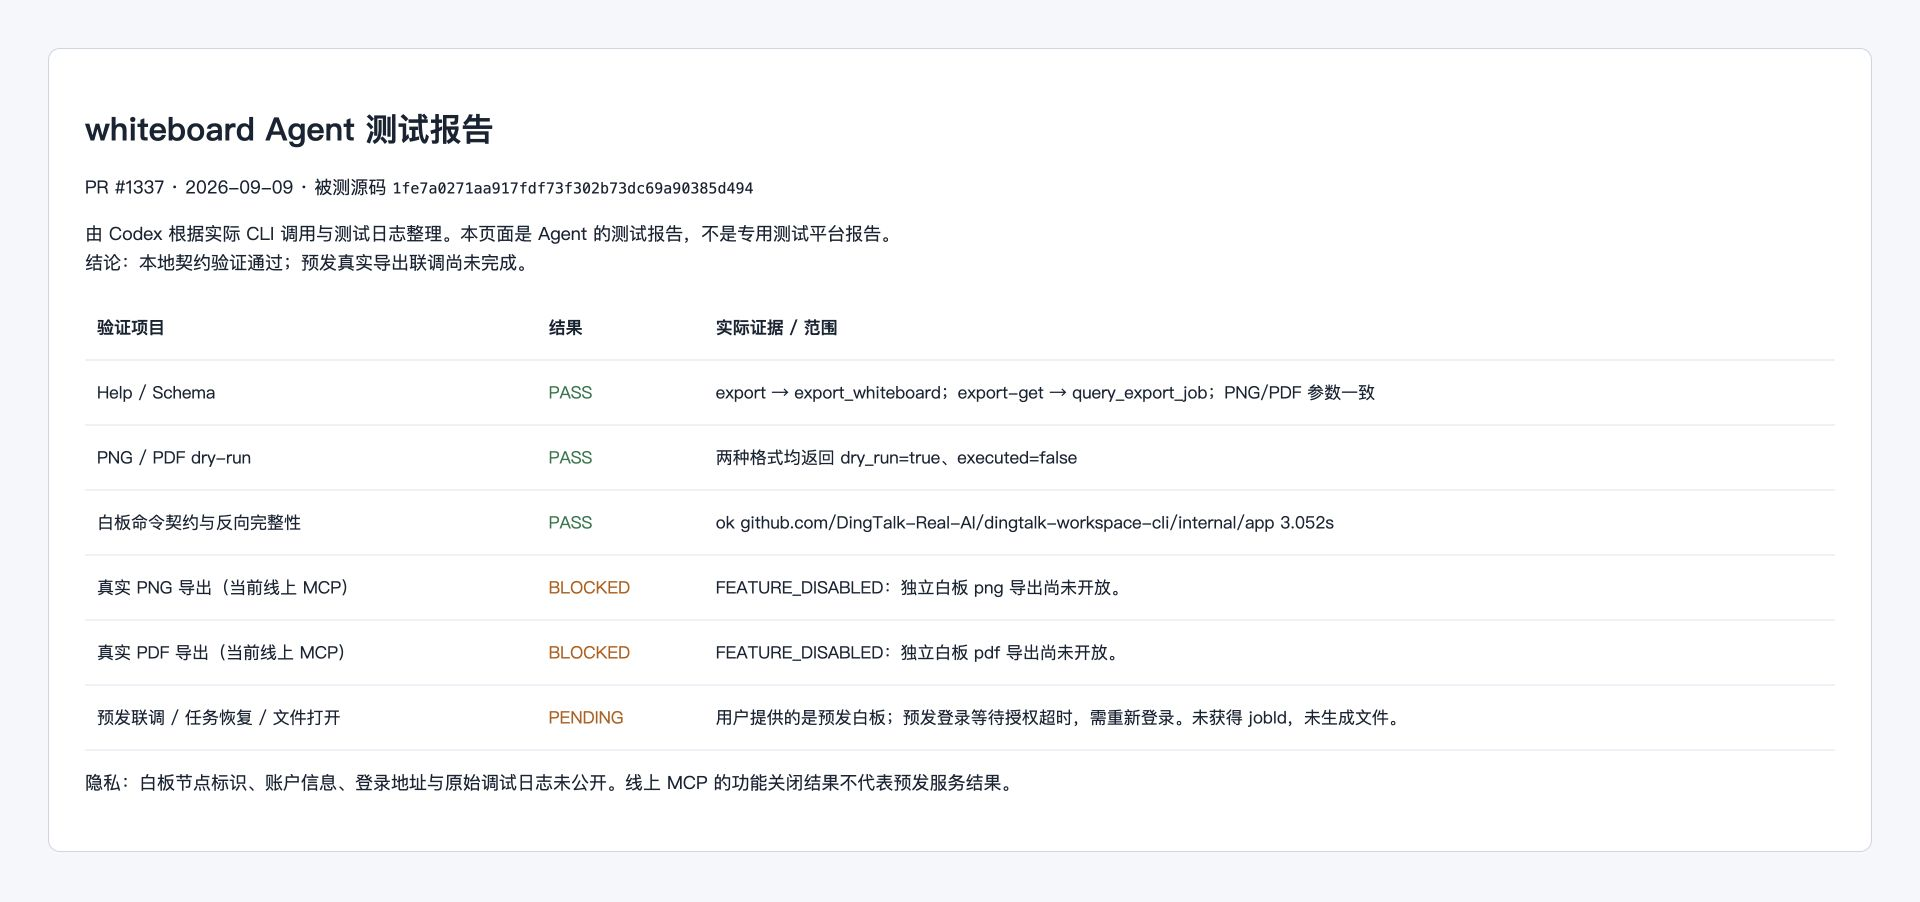
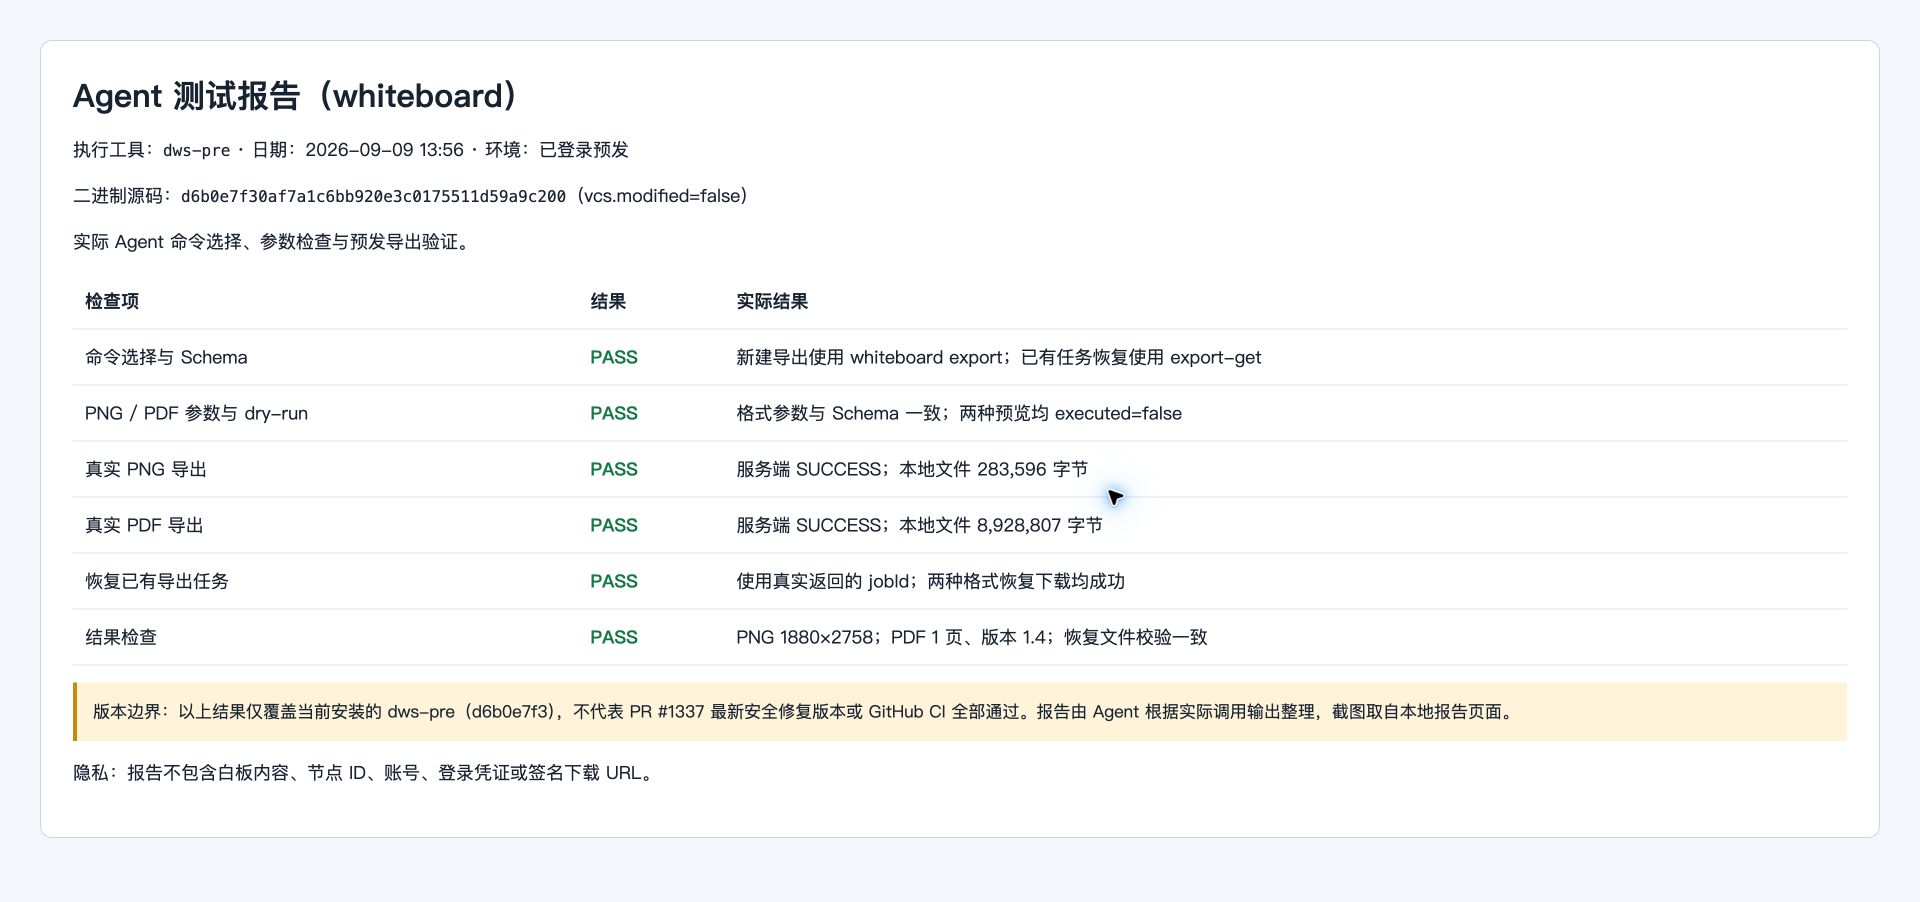
fix(ci): align linux ABI fixture with runtime payload

diff --git a/scripts/build/linux-abi/main_test.go b/scripts/build/linux-abi/main_test.go
@@ -17,7 +17,7 @@ import (
 func TestCrossPlatformCoverageLinuxABIReleaseLibraries(t *testing.T) {
 	for _, arch := range []string{"amd64", "arm64"} {
 		t.Run(arch, func(t *testing.T) {
-			path := filepath.Join("..", "..", "..", "third_party", "runtimepayload", "20260825", "linux", arch, "libx7k2m9p4q1w8.so")
+			path := filepath.Join("..", "..", "..", "third_party", "runtimepayload", "20260908", "linux", arch, "libx7k2m9p4q1w8.so")
 			var stderr bytes.Buffer
 			if code := run([]string{path}, &stderr); code != 0 {
 				t.Fatalf("bundled library rejected: %d, %s", code, &stderr)
